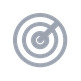
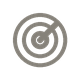
style: 换成纸质手账风格（参考低饱和莫兰迪配色）
从参考图提炼：米色纸底、暖白便签卡、18px 大圆角、深灰褐字、
暖色阴影（黑色阴影在米纸上会显脏）。

两处刻意不跟参考图走：
- 状态色不跟着变灰。「有票」必须全场最抓眼——抢票时用户扫一眼
  就要知道有没有票，柔和不等于模糊。
- 不用花体字。内嵌字体要额外下载（体积+首屏），票务信息用花体更难读；
  手账感靠色温、圆角、留白撑。

配色不是照抄，是算出来的：
- 新增 tools/check_palette.py 校验 WCAG 对比度。参考图的低饱和色
  直接用有一半不达标（次要文字 4.46:1、有票 3.87:1）
- 解法：保留低饱和、压低明度（色相不动、深一度），全部 11 项达标
- 有票用暖绿 #4F7A3D、无票用冷灰蓝 #6B7076：亮度几乎相同但
  色相差 110°，色弱用户靠色相也能分开（脚本里自动验这一项）

各页面残留的冷灰硬编码色值全部换成令牌，tabBar 图标按新主色重出。

Changed region(s): [[0.1481, 0.1481, 0.8395, 0.8395]]

diff --git a/tools/check_palette.py b/tools/check_palette.py
@@ -1,0 +1,115 @@
+"""校验配色是否达标：所有文字/背景组合的 WCAG 对比度。
+
+为什么需要脚本：把参考图的低饱和莫兰迪色直接抄进界面很好看，
+但「有票」是灰绿、「无票」是暖灰——两者太像就分不清，
+在手绘风里尤其容易翻车。这里把每对组合的对比度算出来，
+不够的直接报出来，不靠肉眼判断。
+
+用法：
+    python tools/check_palette.py
+"""
+from __future__ import annotations
+
+#: 与 miniprogram/miniprogram/app.wxss 里的 :root 同源，改一处记得改两处。
+#:
+#: 定色思路：参考图给的低饱和莫兰迪直接抄进来很好看，但在浅米色纸上
+#: 有一半达不到 WCAG 对比度要求（次要文字 4.46:1、有票 3.87:1…）。
+#: 唯一的解法是**保留低饱和、压低明度**——色相不动、深一度，
+#: 这样既不刺眼又读得清。「有票/无票」除了文案不同，还拉开了亮度差，
+#: 色弱用户也能靠明暗分辨。
+PALETTE = {
+    "bg": "#F5F1E8",       # 纸底
+    "card": "#FFFDF8",     # 暖白便签
+    "brand": "#4F6E80",    # 雾霾蓝
+    "t1": "#3D3A34",       # 正文
+    "t2": "#6E6A61",       # 次要
+    "t3": "#767268",       # 提示
+    "ok": "#4F7A3D",       # 有票：暖绿
+    "none": "#6B7076",     # 无票：冷灰蓝（刻意跟 ok 反色相，色弱也能靠色相分辨）
+    "bad": "#A94E3E",      # 异常
+    "warn": "#8F6417",     # 提醒
+}
+
+#: (用途, 前景, 背景, 是否大字)。大字阈值 3.0，普通文本 4.5。
+CHECKS = [
+    ("正文", "t1", "card", False),
+    ("次要文字", "t2", "card", False),
+    ("提示文字", "t3", "card", False),
+    ("正文/纸底", "t1", "bg", False),
+    ("有票标签", "ok", "card", False),
+    ("无票标签", "none", "card", False),
+    ("异常标签", "bad", "card", False),
+    ("提醒标签", "warn", "card", False),
+    ("主色链接", "brand", "card", False),
+    ("白字/主按钮", "card", "brand", False),
+    ("大数字/纸底", "ok", "bg", True),
+]
+
+
+def luminance(hex_color: str) -> float:
+    """WCAG 相对亮度。"""
+    chans = [int(hex_color[i: i + 2], 16) / 255 for i in (1, 3, 5)]
+    lin = [c / 12.92 if c <= 0.03928 else ((c + 0.055) / 1.055) ** 2.4 for c in chans]
+    return 0.2126 * lin[0] + 0.7152 * lin[1] + 0.0722 * lin[2]
+
+
+def contrast(fg: str, bg: str) -> float:
+    a, b = luminance(fg), luminance(bg)
+    hi, lo = max(a, b), min(a, b)
+    return (hi + 0.05) / (lo + 0.05)
+
+
+def hue(hex_color: str) -> float:
+    """0–360 色相。只在饱和度够高时才有意义，灰色一律返回 -1。"""
+    r, g, b = (int(hex_color[i: i + 2], 16) / 255 for i in (1, 3, 5))
+    mx, mn = max(r, g, b), min(r, g, b)
+    if mx - mn < 0.02:          # 接近中性色，色相无意义
+        return -1.0
+    if mx == r:
+        h = ((g - b) / (mx - mn)) % 6
+    elif mx == g:
+        h = (b - r) / (mx - mn) + 2
+    else:
+        h = (r - g) / (mx - mn) + 4
+    return h * 60
+
+
+def hue_gap(a: str, b: str) -> float:
+    """两个颜色的色相差（0–180）。"""
+    ha, hb = hue(a), hue(b)
+    if ha < 0 or hb < 0:
+        return 0.0
+    d = abs(ha - hb) % 360
+    return min(d, 360 - d)
+
+
+def main() -> int:
+    print(f"{'用途':14s} {'前景':9s} {'背景':9s} {'对比度':>9s}   判定")
+    print("-" * 60)
+    bad = 0
+    for name, fg_key, bg_key, is_large in CHECKS:
+        fg, bg = PALETTE[fg_key], PALETTE[bg_key]
+        r = contrast(fg, bg)
+        need = 3.0 if is_large else 4.5
+        ok = r >= need
+        if not ok:
+            bad += 1
+        verdict = "达标" if ok else f"不足（需 {need}）"
+        print(f"{name:14s} {fg:9s} {bg:9s} {r:8.2f}:1  {verdict}")
+
+    # 「有票」和「无票」要能一眼分开。区分靠两个通道：明暗差 或 色相差，
+    # 任一达标即可——只靠亮度的话，低饱和手绘风里两者必然靠得很近。
+    delta = abs(luminance(PALETTE["ok"]) - luminance(PALETTE["none"]))
+    gap = hue_gap(PALETTE["ok"], PALETTE["none"])
+    ok_diff = delta > 0.05 or gap > 25
+    print(f"\n有票 vs 无票：亮度差 {delta:.3f}，色相差 {gap:.0f}° → "
+          + ("能区分" if ok_diff else "太接近，必须拉开一个"))
+    if not ok_diff:
+        bad += 1
+
+    print("\n结论：" + ("全部达标" if bad == 0 else f"{bad} 项需要调整"))
+    return 0 if bad == 0 else 1
+
+
+if __name__ == "__main__":
+    raise SystemExit(main())
